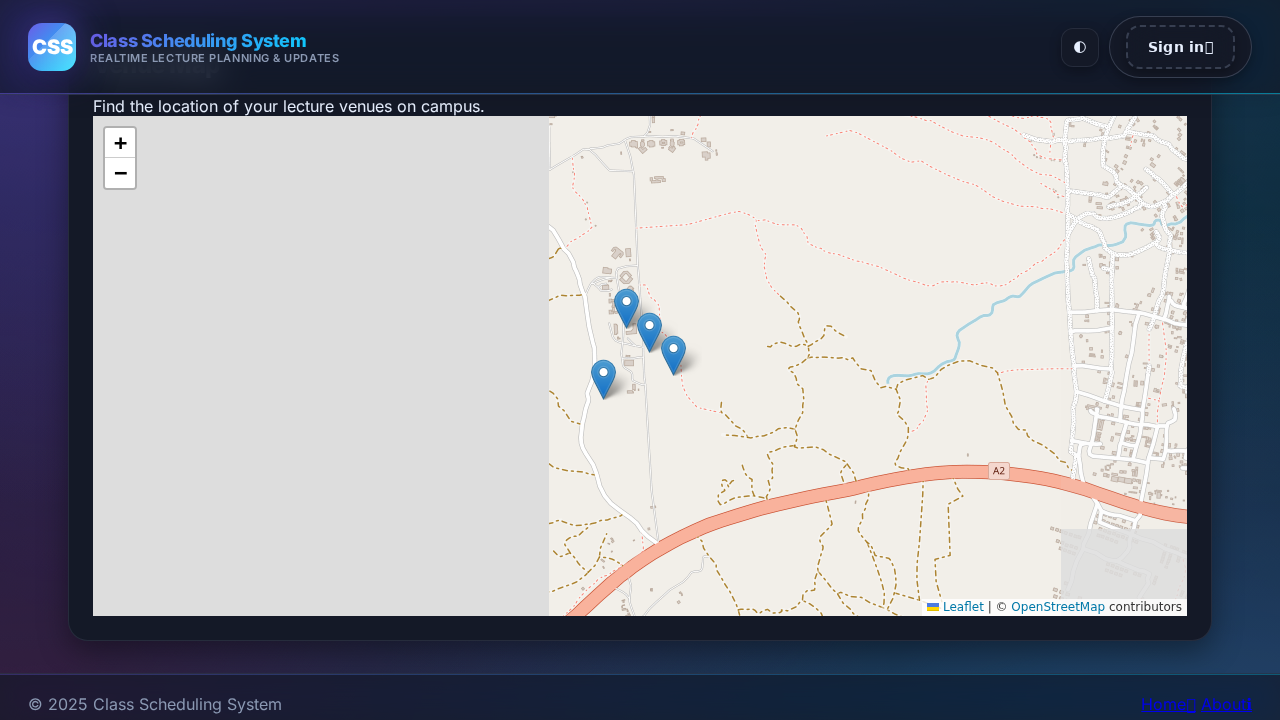
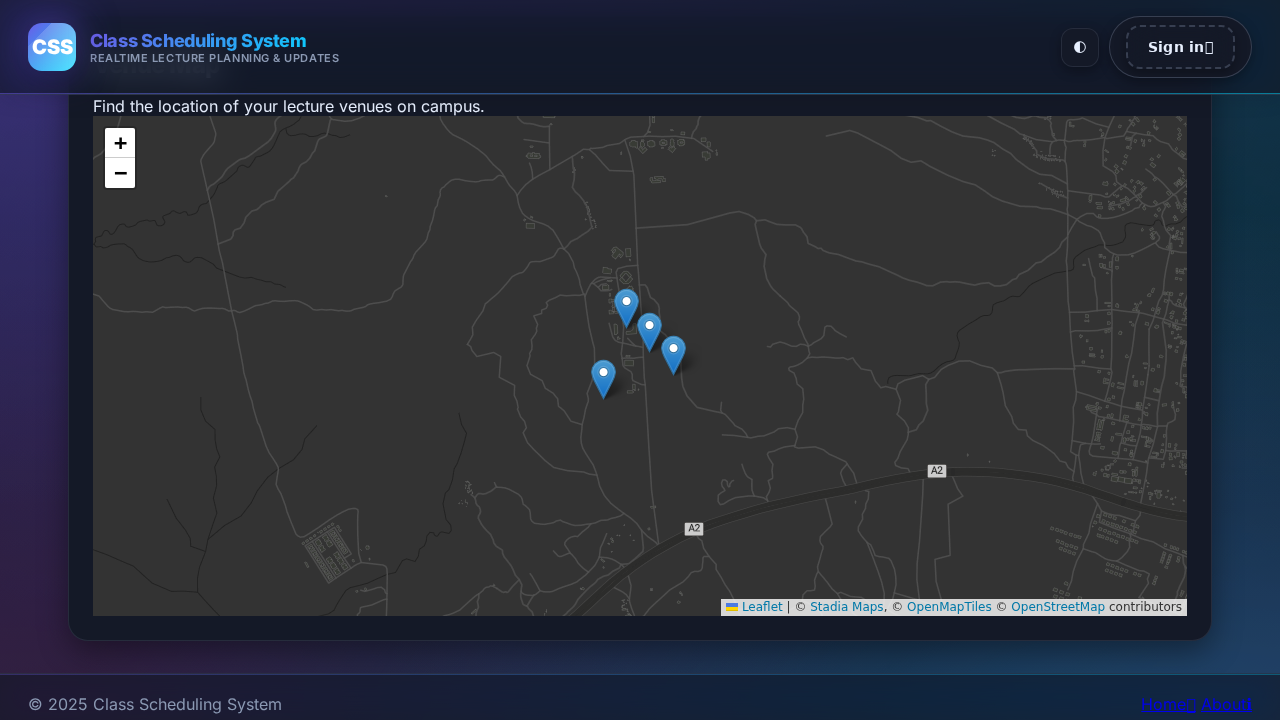
Feat: Update map style to a modern dark theme
This commit updates the visual style of the venue map to better
match the application's modern, dark-themed design. The default
OpenStreetMap tile layer has been replaced with the
'Stadia.AlidadeSmoothDark' tile layer, which provides a more
polished and aesthetically pleasing look.

This change was made in response to user feedback that the original
map style was not visually appealing. The new style is still provided
free of charge and does not require an API key.

diff --git a/class_scheduling_prod_ready_v3/js/ui.js b/class_scheduling_prod_ready_v3/js/ui.js
@@ -55,8 +55,9 @@ export function mapView() {
 
     const map = L.map('map').setView([7.85944, 6.68361], 15);
 
-    L.tileLayer('https://{s}.tile.openstreetmap.org/{z}/{x}/{y}.png', {
-      attribution: '&copy; <a href="https://www.openstreetmap.org/copyright">OpenStreetMap</a> contributors'
+    L.tileLayer('https://tiles.stadiamaps.com/tiles/alidade_smooth_dark/{z}/{x}/{y}{r}.png', {
+      maxZoom: 20,
+      attribution: '&copy; <a href="https://stadiamaps.com/">Stadia Maps</a>, &copy; <a href="https://openmaptiles.org/">OpenMapTiles</a> &copy; <a href="http://openstreetmap.org">OpenStreetMap</a> contributors'
     }).addTo(map);
 
     const venues = [

diff --git a/jules-scratch/verification/verify_map_style.py b/jules-scratch/verification/verify_map_style.py
@@ -1,0 +1,26 @@
+import asyncio
+from playwright.async_api import async_playwright, expect
+import os
+
+async def main():
+    async with async_playwright() as p:
+        browser = await p.chromium.launch()
+        page = await browser.new_page()
+
+        # Go to the map page using the local web server
+        await page.goto("http://localhost:8000/#map", wait_until="domcontentloaded")
+
+        # The router injects the map view, which contains the #map div.
+        map_container = page.locator("#routerView #map")
+        await expect(map_container).to_be_visible(timeout=10000)
+
+        # Wait for the map tiles to load to ensure the map is rendering.
+        await expect(page.locator(".leaflet-tile-loaded").first).to_be_visible(timeout=15000)
+
+        # Take a screenshot
+        await page.screenshot(path="jules-scratch/verification/verification.png")
+
+        await browser.close()
+
+if __name__ == "__main__":
+    asyncio.run(main())
